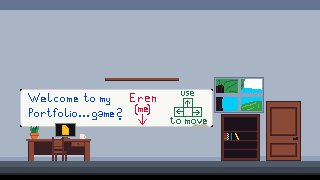
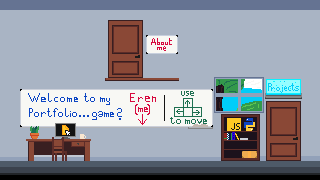
add project room

diff --git a/main.js b/main.js
@@ -31,8 +31,14 @@ spriteJumpLeft.src = "imgs/spriteJumpLeft.png";
 let currentSprite = spriteIdle;
 
 // get backgrounds for rooms
-const backgroundStartRoom = new Image();
+let backgroundStartRoom = new Image();
 backgroundStartRoom.src = "imgs/backgroundStartRoom.png";
+
+let backgroundProjectRoom = new Image();
+backgroundProjectRoom.src = "imgs/backgroundProjectRoom.png";
+console.log(backgroundProjectRoom);
+let currentBackground = backgroundStartRoom;
+console.log(currentBackground);
 
 // player hitbox
 const playerHitBox = {
@@ -43,64 +49,80 @@ const playerHitBox = {
   color: "rgba(0, 0, 0, 0)",
 };
 // create objects and room
-floorObject = {
+const floorObject = {
   x: 0,
   y: 162,
   width: 320,
   height: 30,
   color: "rgba(00, 0, 0, 0.0)",
   collidable: true, // can collide with player
-}
-deskObject = {
+};
+const deskObject = {
   x: 26,
   y: 139,
   width: 65,
   height: 2,
   color: "rgba(0, 0, 0, 0.0)",
   collidable: true, // can collide with player
-}
-shelfObject = {
+};
+const shelfObject = {
   x: 221,
   y: 114,
   width: 39,
   height: 2,
   color: "rgba(0, 0, 0, 0.0)",
   collidable: true, // can collide with player
-}
-wallShelfObject = {
+};
+const wallShelfObject = {
   x: 105,
   y: 78,
   width: 74,
   height: 3,
   color: "rgba(0, 0, 0, 0.0)",
   collidable: true, // can collide with player
-}
-objects = [floorObject, deskObject, shelfObject, wallShelfObject]; 
+};
+const doorProjects = {
+  x: 280,
+  y: 125,
+  width: 20,
+  height: 36,
+  color: "rgba(0,0,0,0)",
+  collidable: false,
+};
+let startRoom = [
+  floorObject,
+  deskObject,
+  shelfObject,
+  wallShelfObject,
+  doorProjects,
+];
+let projectsRoom = [floorObject];
+
+let currentRoom = startRoom;
 
 // function to manage/switch between player sprites
 // global variable to give sprites time before switching
-let spriteClock = 30;
+let spriteClock = 20;
 function spriteManager(moving_left, moving_right, jump_allowed) {
   spriteClock--;
-  console.log(spriteClock);
   // reset spriteclock
-  if (spriteClock <= 0) spriteClock = 30;
+  if (spriteClock <= 0) spriteClock = 20;
   // Check if we need the jump sprites
   if (jump_allowed) {
     // player on floor
     if (moving_left) {
       // switch between sprites
       // clock decides which one
-      if (currentSprite == spriteLeft1 && spriteClock >= 15)
+      if (currentSprite == spriteLeft1 && spriteClock >= 10)
         currentSprite = spriteLeft2;
-      else if (spriteClock < 15) currentSprite = spriteLeft1;
+      else if (spriteClock < 10) currentSprite = spriteLeft1;
     }
     if (moving_right) {
       // switch between sprites
       // clock decides which one
-      if (currentSprite == spriteRight1 && spriteClock >= 15)
+      if (currentSprite == spriteRight1 && spriteClock >= 10)
         currentSprite = spriteRight2;
-      else if (spriteClock < 15) currentSprite = spriteRight1;
+      else if (spriteClock < 10) currentSprite = spriteRight1;
     } else if (!movingLeft && !movingRight) {
       currentSprite = spriteIdle;
     }
@@ -118,10 +140,10 @@ function spriteManager(moving_left, moving_right, jump_allowed) {
 function draw() {
   ctx.clearRect(0, 0, canvas.width, canvas.height); // clear the canvas
   // draw background
-  ctx.drawImage(backgroundStartRoom, 0, 0, canvas.width, canvas.height);
+  ctx.drawImage(currentBackground, 0, 0, canvas.width, canvas.height);
   // draw all objects
   //   for loop to draw all objects
-  for (let obj of objects) {
+  for (let obj of currentRoom) {
     ctx.fillStyle = obj.color; // set object color
     ctx.fillRect(obj.x, obj.y, obj.width, obj.height); // draw object
   }
@@ -139,8 +161,8 @@ function draw() {
     0,
     32,
     32,
-    playerHitBox.x -6,
-    playerHitBox.y -4 ,
+    playerHitBox.x - 6,
+    playerHitBox.y - 4,
     32,
     32
   );
@@ -152,13 +174,12 @@ function draw() {
 // movement variables
 let movingLeft = false;
 let movingRight = false;
-let speedBoost = 1.5;
 // jumping variables
 let jumping = false;
 let jumpAllowed = false; // allow jumping only when on the ground
-let jumpHeight = 50; // height of the jump
+let jumpHeight = 20; // height of the jump
 // gravity variable
-let gravity = 2;
+let gravity = 4;
 
 // Add event listener for keydown events
 document.addEventListener("keydown", (event) => {
@@ -194,14 +215,12 @@ function update() {
     // stop moving when leaving the screen
     if (playerHitBox.x <= 0) {
       playerHitBox.x = 0; // prevent going off screen
-    }
-    else playerHitBox.x -= 2; // move left
+    } else playerHitBox.x -= 2; // move left
   }
   if (movingRight) {
     if (playerHitBox.x + playerHitBox.width >= 320) {
       playerHitBox.x = 320 - playerHitBox.height; // prevent going off screen
-    }
-    else {
+    } else {
       playerHitBox.x += 2; // move right
     }
   }
@@ -215,7 +234,7 @@ function update() {
     if (jumpHeight == 0) {
       jumping = false; // stop jumping
       gravity *= -1; // reset gravity
-      jumpHeight = 50; // reset jump height
+      jumpHeight = 20; // reset jump height
     } else {
       jumpHeight -= 1; // decrease jump height
     }
@@ -225,7 +244,7 @@ function update() {
   playerHitBox.y += gravity;
 
   // check for collision with the object
-  for (let obj of objects) {
+  for (let obj of currentRoom) {
     // Check for collision on the x-axis
     if (
       (playerHitBox.x > obj.x && playerHitBox.x <= obj.x + obj.width) ||
@@ -241,7 +260,12 @@ function update() {
         if (obj.collidable) {
           playerHitBox.y = obj.y - playerHitBox.height; // place player on top of the object
           jumpAllowed = true; // allow jumping again
-        } else if (obj.objectType == "door") objects = obj.leadsTo;
+        } else if (obj === doorProjects) {
+          currentRoom = projectsRoom;
+          console.log(currentBackground);
+          currentBackground = backgroundProjectRoom;
+          console.log(currentBackground);
+        }
       }
       // check for collision on the y-axis from below
       // else if (
